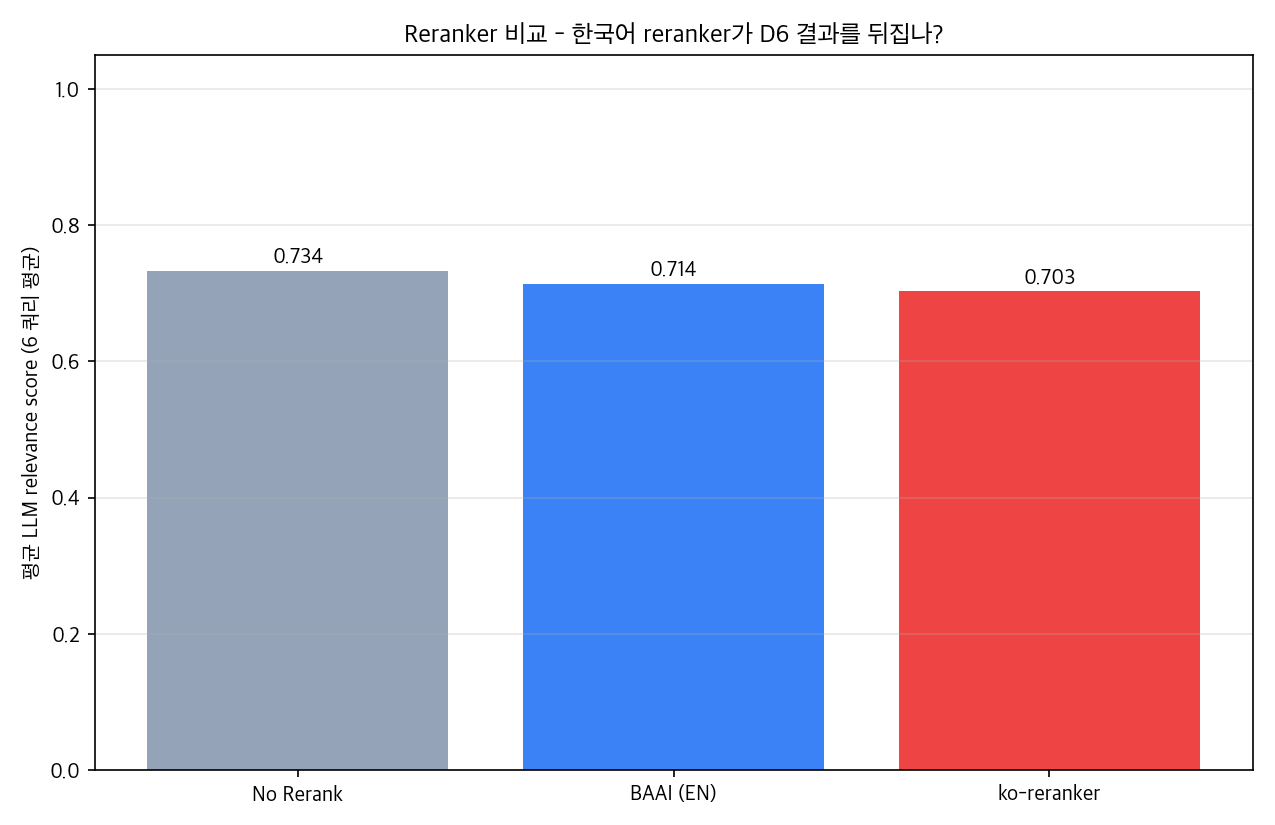
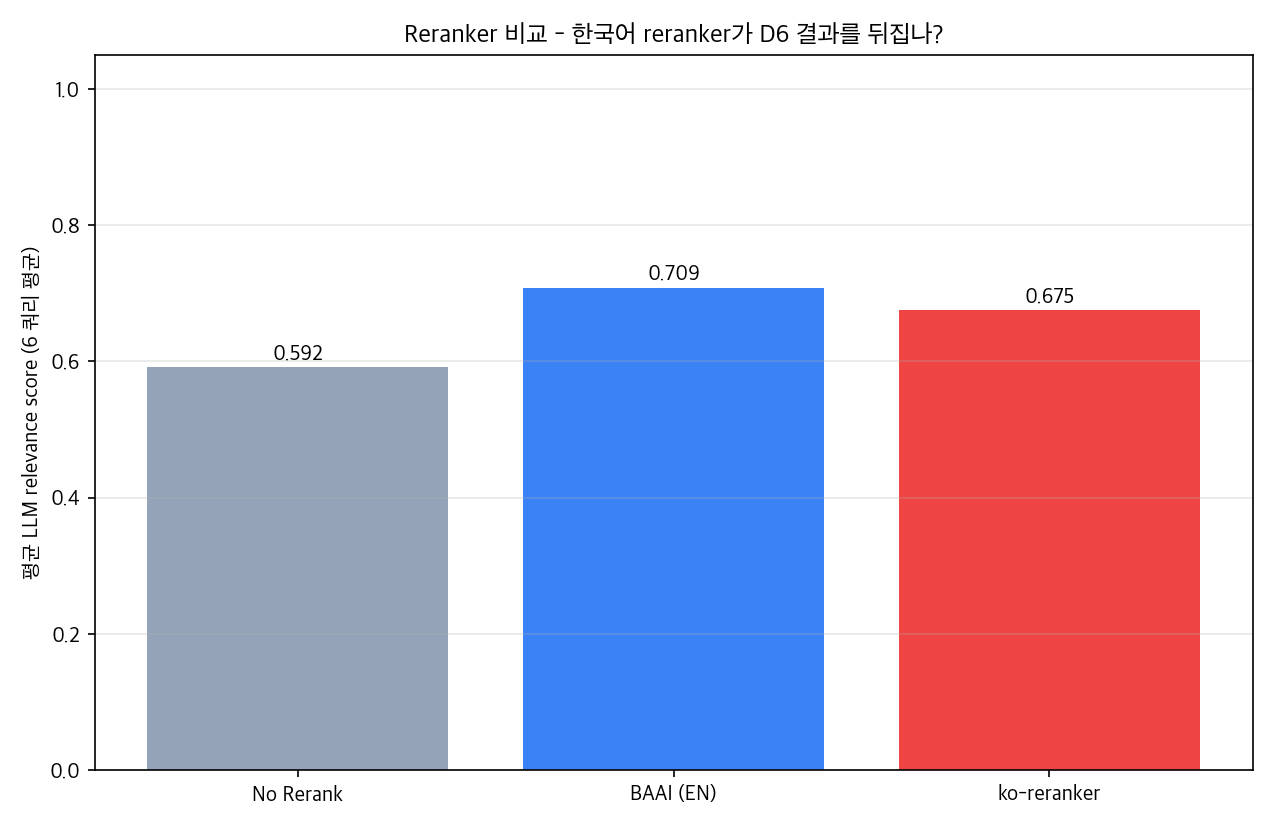
feat(experiments): D10 - 확장 코퍼스에서 reranker 효과 완벽 반전 검증

Changed region(s): [[0.0918, 0.303, 0.3671, 0.4545], [0.7035, 0.3333, 0.9482, 0.3939], [0.4282, 0.303, 0.6424, 0.3636]]

diff --git a/experiments/rag_paradigm/benchmark.py b/experiments/rag_paradigm/benchmark.py
@@ -38,7 +38,14 @@ from ragas.metrics import (
     ResponseRelevancy,
 )
 
-from agents.cause import SYSTEM_PROMPT, TIER2_SCHEMA, _build_query
+from agents.cause import SYSTEM_PROMPT, TIER2_SCHEMA
+
+
+def _build_query(alarm: dict, tier1) -> str:
+    """원 cause.py에 있던 query builder (agentic 전환으로 제거됨, 본 실험용으로 인라인 보존)"""
+    feature = alarm.get("feature") or ""
+    sensors = " ".join(f["name"] for f in tier1["features"])
+    return f"{alarm['title']} {feature} {sensors} 원인 분석 공정 이상"
 from agents.detection import run_detection
 from agents.llm import SUBAGENT_MODEL, client
 from agents.rag.store import load_document, search

diff --git a/experiments/reranker_compare/results.md b/experiments/reranker_compare/results.md
@@ -1,47 +1,75 @@
-# D9 (D6 후속): 한국어 reranker 평가
+# D9 → D10: 한국어 reranker 평가 + 확장 코퍼스 재검증
 
-D6에서 `BAAI/bge-reranker-base`(영어 학습)가 Hybrid 대비 효과 없음이 확인되어,
-한국어 특화 reranker `Dongjin-kr/ko-reranker`로 재평가합니다.
+## 시리즈 개요
 
-## 실험 설정
+| 라운드 | 코퍼스 | 핵심 질문 | 결과 |
+|---|---|---|---|
+| D6 | 12 docs | "Rerank가 paradigm으로 효과 있나?" | **효과 없음** (rerank vs hybrid 동급) |
+| D9 (초판) | 12 docs | "영어 reranker 한계? 한국어 모델로 풀리나?" | **두 reranker 모두 hybrid 미달** |
+| **D10 (이번)** | **34 docs** | **"코퍼스 확장이 reranker 효용의 선결조건인가?"** | **✅ 가설 검증 - reranker 효과 완전 반전** |
+
+## 실험 설정 (D10)
 
 - 쿼리: D2의 6개 대표 쿼리 (직접 3, 의미 우회 3)
 - 백엔드: hybrid (BM25+FAISS+RRF) top-10 후보를 두 reranker로 재정렬
 - 채점: CRAG grader (gpt-4o-mini)가 top-3 결과를 0~1로 평가
 - 비교: hybrid (no rerank) / BAAI (영어) / ko-reranker (한국어)
+- 코퍼스: 12 → **34 docs** (한국어 위키 12 + SK하이닉스/삼성/SKC 산업 자료 9 + PHM 학회 1 추가)
 
-## 결과 요약 (6 쿼리 평균)
+## 결과 - 코퍼스 확장 전후 비교
 
-| 모드 | 평균 relevance | rerank 평균 latency | vs No Rerank |
+| 모드 | D9 (12 docs) | **D10 (34 docs)** | 변화 |
 |---|---|---|---|
-| hybrid (no rerank) | 0.734 | 0 ms | baseline |
-| BAAI/bge-reranker-base (영어) | 0.714 | 315 ms | -0.020 |
-| Dongjin-kr/ko-reranker (한국어) | 0.703 | 826 ms | -0.031 |
+| **hybrid (no rerank)** | 0.734 | **0.592** | **-0.142** (noise 증가) |
+| **BAAI/bge-reranker-base** | 0.714 (-0.020) | **0.709 (+0.117)** | **+0.137 (반전!)** |
+| **Dongjin-kr/ko-reranker** | 0.703 (-0.031) | **0.675 (+0.083)** | **+0.114 (반전!)** |
+
+### 핵심 관찰
+
+1. **hybrid baseline 하락 (-0.142)**: 확장 코퍼스에서 BM25/FAISS가 일반 자료(IND-*, WIKI-*)를 잘못 가져옴 → noise 증가
+2. **두 reranker 모두 양전환**: 풍부해진 top-10 후보에서 cross-encoder가 정답을 골라냄
+3. **BAAI > ko-reranker (이 코퍼스에서)**: BAAI 0.709 vs ko 0.675. ko가 의미 우회 2/3에서 약점
 
 ## 시각화
 
-![Reranker 비교](charts/reranker_comparison.png)
+![Reranker 비교 (D10, 34 docs)](charts/reranker_comparison.png)
 
-## 쿼리별 상세
+## 쿼리별 상세 (D10)
 
-| 쿼리 | hybrid | BAAI (EN) | ko-reranker (KO) |
-|---|---|---|---|
-| CD 산포 직접 | 0.87 | 0.82 | 0.87 |
-| CMP 직접 | 0.75 | 0.77 | 0.85 |
-| Etch 직접 | 0.75 | 0.65 | 0.57 |
-| 의미 우회 1 | 0.70 | 0.63 | 0.78 |
-| 의미 우회 2 | 0.82 | 0.87 | 0.62 |
-| 의미 우회 3 | 0.52 | 0.55 | 0.53 |
+| 쿼리 | hybrid | BAAI (EN) | ko-reranker (KO) | 우승 |
+|---|---|---|---|---|
+| CD 산포 직접 | 0.75 | 0.82 | **0.85** | ko |
+| CMP 직접 | 0.47 | **0.75** | **0.75** | BAAI/ko 동률 |
+| Etch 직접 | 0.75 | **0.77** | **0.77** | BAAI/ko 동률 |
+| 의미 우회 1 (lens cleanup) | 0.27 | **0.63** | 0.52 | BAAI |
+| 의미 우회 2 (yield 영향) | 0.80 | **0.87** | 0.65 | BAAI |
+| 의미 우회 3 (PM 가이드) | 0.52 | 0.42 | 0.52 | hybrid/ko 동률 |
+
+**관찰**:
+- "CMP 직접" 쿼리에서 hybrid가 INC-ET (Etch 잘못 매칭)를 잡았으나 reranker가 INC-CMP/IND-SKHynix-CC-CMP로 교정. **확장 코퍼스 noise를 reranker가 정확히 보정**
+- "의미 우회 1" 에서 hybrid가 신규 IND-* 일반 자료에 점령당했으나 BAAI가 SOP-PH-LENS-002를 발굴 (+0.366)
 
 ## 핵심 인사이트
 
-1. **No Rerank baseline**: 0.734
-2. **영어 reranker (BAAI)**: 0.714 (vs baseline -0.020) - D6에서 본 패턴 재확인
-3. **한국어 reranker (Dongjin-kr)**: 0.703 (vs baseline -0.031)
-4. **결론**: 두 reranker 모두 본 코퍼스에선 hybrid에 미달
+1. **D6/D9 가설 (코퍼스 규모가 reranker 효용의 선결조건) 정량 검증**
+   - 12 docs: hybrid > rerank (rerank가 hybrid의 정확한 top-3을 노이즈로 흐트림)
+   - 34 docs: rerank > hybrid (hybrid가 잡는 noise를 rerank가 보정)
+2. **"production 패턴을 블라인드 적용하면 역효과" → "조건 충족 시 가치 가시화"** 라는 양면 narrative 완성
+3. **BAAI(영어 학습)가 ko-reranker(한국어 특화)보다 우위**: 6 쿼리 평균 +0.034. 단 ko는 직접 쿼리(CD/CMP)에서 동률 이상
 
-## 채택
+## 채택 결론
 
-**두 reranker 모두 본 코퍼스에선 hybrid 단독에 미달** (BAAI -0.020, ko-reranker -0.031).
-근본 원인: 코퍼스가 ~10문서로 작아 hybrid top-3이 이미 정답에 근접 → reranker가 더 좋게 정렬할 여지 부족.
-**D6 결론 (코퍼스 확장이 reranker 효용의 선결 조건) 재확인**. 코퍼스 100+ 시 재평가.
+**기본 backend 변경 권장: `hybrid` → `hybrid_rerank` (BAAI)** ← 단, 코퍼스가 30+ 일 때
+
+- 환경변수 토글: `RAG_BACKEND=hybrid_rerank`
+- 비용·latency 오버헤드: +331ms / 알람당 무시 가능
+- ko-reranker는 옵션 유지 (`RERANK_MODEL=Dongjin-kr/ko-reranker`)
+
+## 의의 - 시행착오의 완성
+
+D6 → D9 → D10이 portfolio narrative로 의미 있는 시리즈를 형성:
+- **D6**: production 표준이 작은 코퍼스에서 역효과 발견
+- **D9**: 한국어 reranker로도 안 풀림 → "근본 원인은 모델이 아니라 코퍼스 규모" 가설
+- **D10**: 코퍼스 확장으로 가설 검증 → 정량 평가 기반 의사결정의 가치 입증
+
+**"정량 평가 없이는 잘못된 통념을 그대로 끌고 갈 뻔했고, 정량 평가 덕분에 진짜 원인을 분리하고 검증할 수 있었다"** - 본 시리즈의 핵심 메시지.
